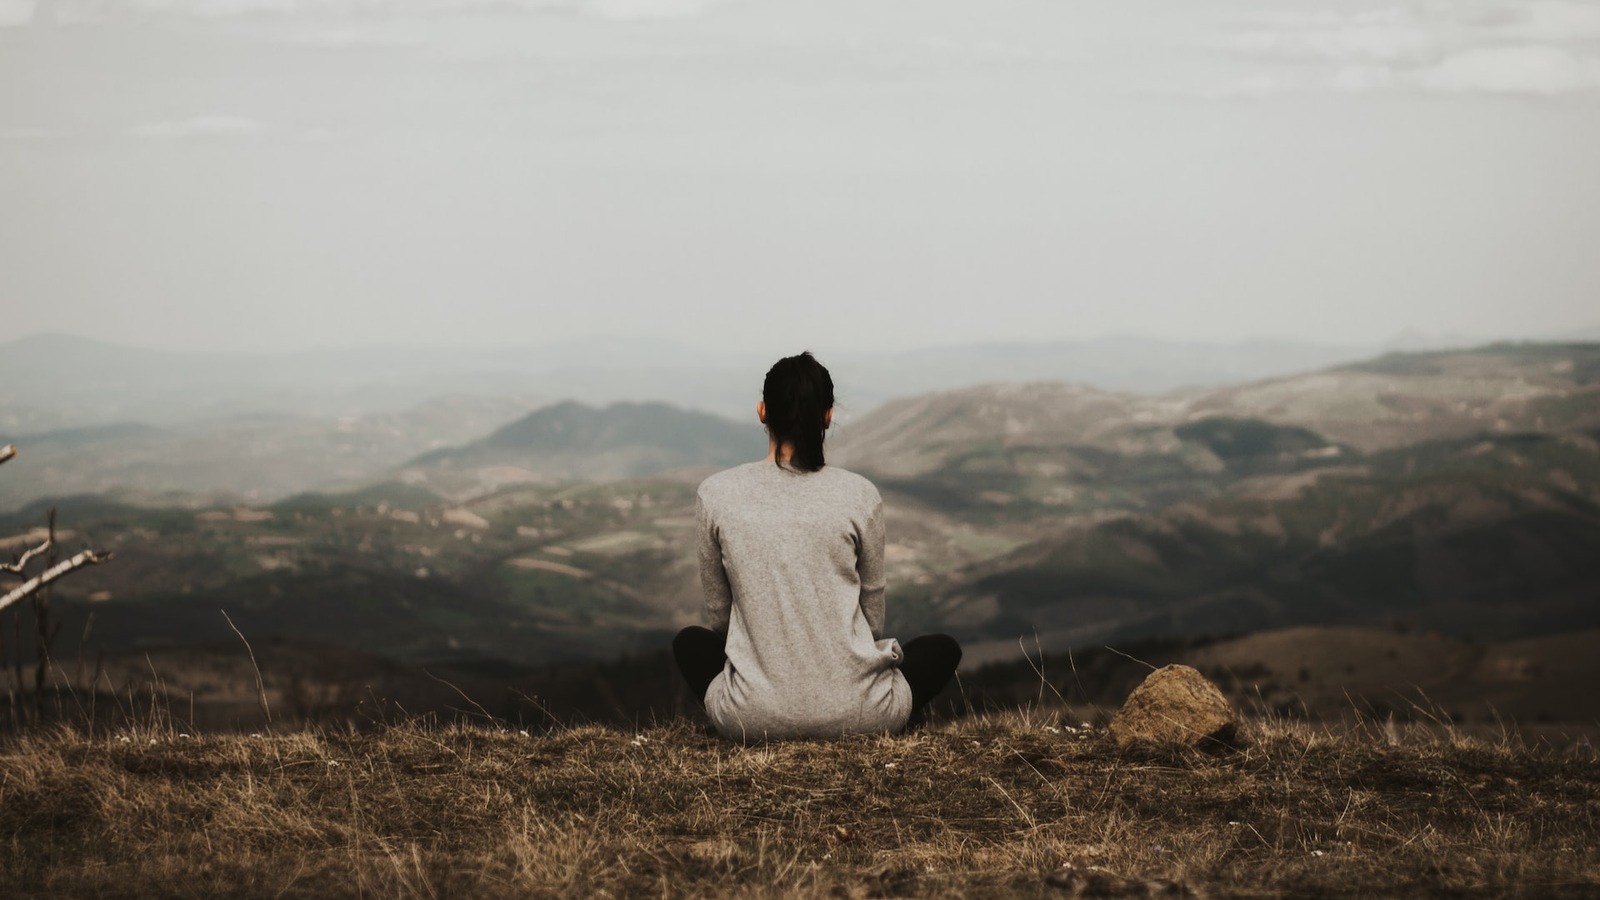
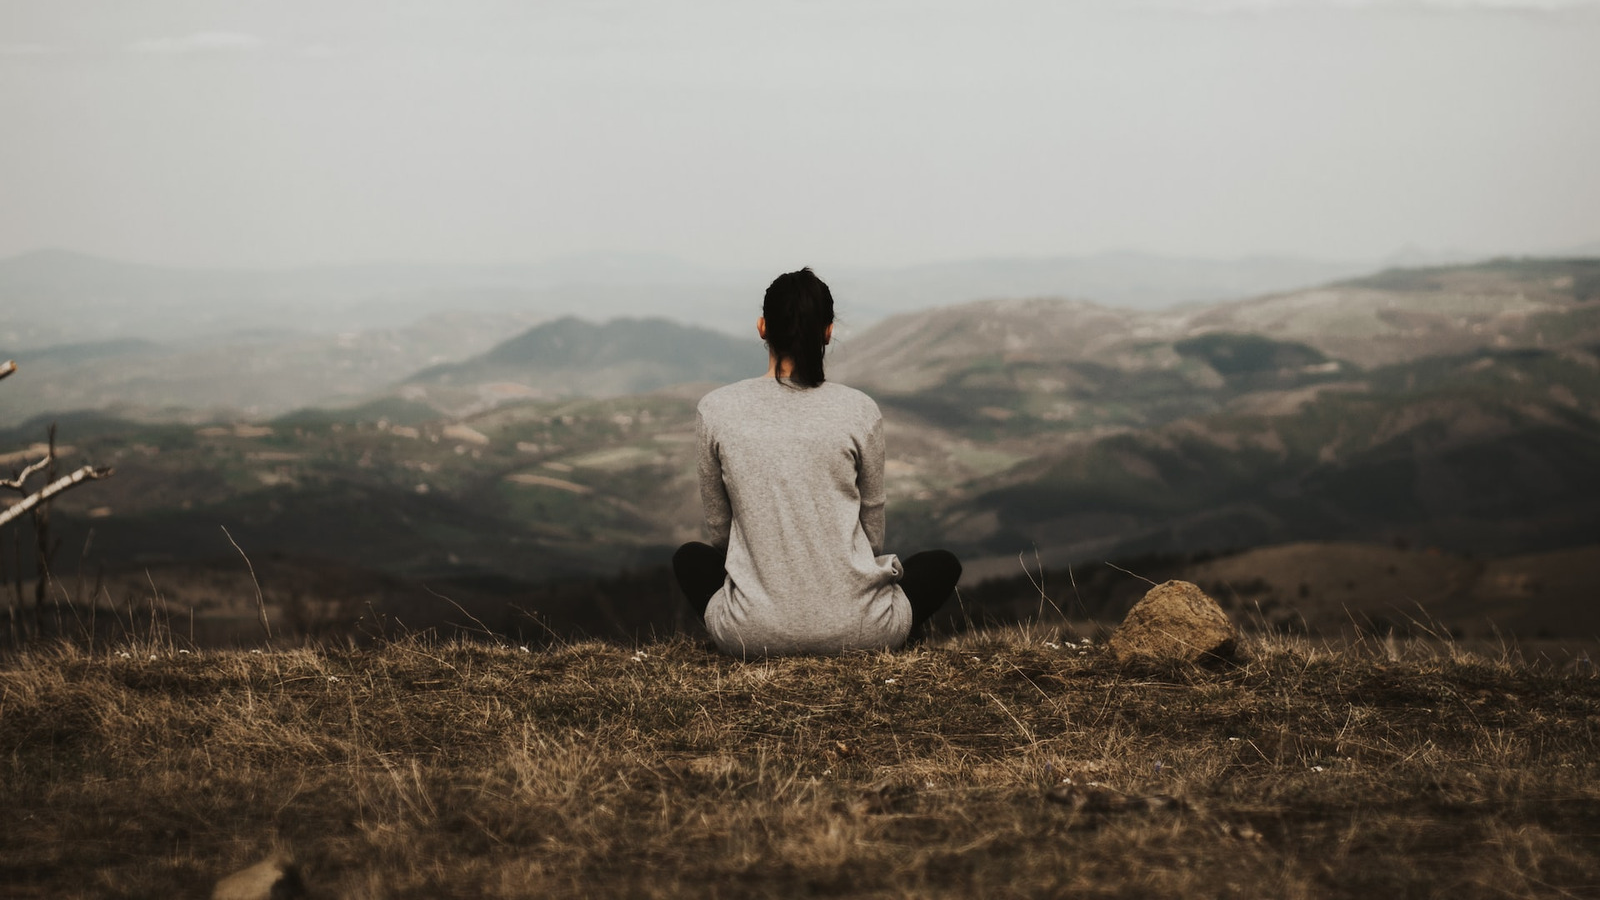
fixed image, size and font size

diff --git a/assets/css/style.css b/assets/css/style.css
@@ -16,7 +16,7 @@ body {
 
 /* Headings and logo */
 
-h1, h2 {
+h1 {
     font-family: Montez, Arial;
     font-style: italic;
     color: darkgoldenrod;
@@ -24,7 +24,9 @@ h1, h2 {
 
 #logo {
     float: left;
-    font-size: 500%;
+    font-size: 450%;
+    margin-left: 30px;
+    margin-bottom: 10px;
 }
 
 /* menus and nav-links */
@@ -33,6 +35,8 @@ h1, h2 {
     font-family: 'Lato', sans-serif;
     font-size: 120%;
     letter-spacing: 4px;
+    margin-right: 20px;
+
 }
 
 #menu, #logo {
@@ -62,13 +66,53 @@ h1, h2 {
 /* banner-photo */
 
 #meditate-outer {
-    height: 600px;
+    height: 500px;
     width: 100%;
     overflow: hidden;
+
+    position: relative;
+}
+
+#cover-text, #cover-text h2 {
+    color: #fff;
 }
 
 #meditate-image {
-    height: 600px;
+    height: 500px;
     width: 100%;
     background: url(../images/meditate2.png) no-repeat center center;
+
+
+animation-name: meditate-zoom;
+animation-duration: 5s;
+animation-fill-mode: forwards;
+}
+
+@keyframes meditate-zoom {
+from{
+    transform: scale(1);
+}
+to{
+    transform: scale(1.1);
+}
+}
+
+#cover-text {
+    font-size: 130%;
+    font-family: Lato, Arial;
+    letter-spacing: 4px;
+    text-align: center center;
+    
+    height: 70px;
+    width: 350px;
+    
+    padding: 20px;
+    
+    background-color: darkgoldenrod;
+
+    bottom: 50px;
+    right: 150px;
+
+    position: absolute;
+
 }

diff --git a/index.html b/index.html
@@ -15,7 +15,7 @@
 <body>
     <header>
         <a href="index.html">
-            <h1 id="logo">Shangri-La</h1>
+            <h1 id="logo">Shangri-La-La-Land</h1>
             <nav>
                 <ul id="menu">
                     <li>
@@ -34,6 +34,10 @@
     <div>
         <section id="meditate-outer">
             <div id="meditate-image"></div>
+            <div id="cover-text">
+                <h3>Find your inner peace at</h3>
+                <h2>Shangri-La-La-Land</h2>
+            </div>
         </section>
         <section>Section 2</section>
         <section>Section 3</section>
